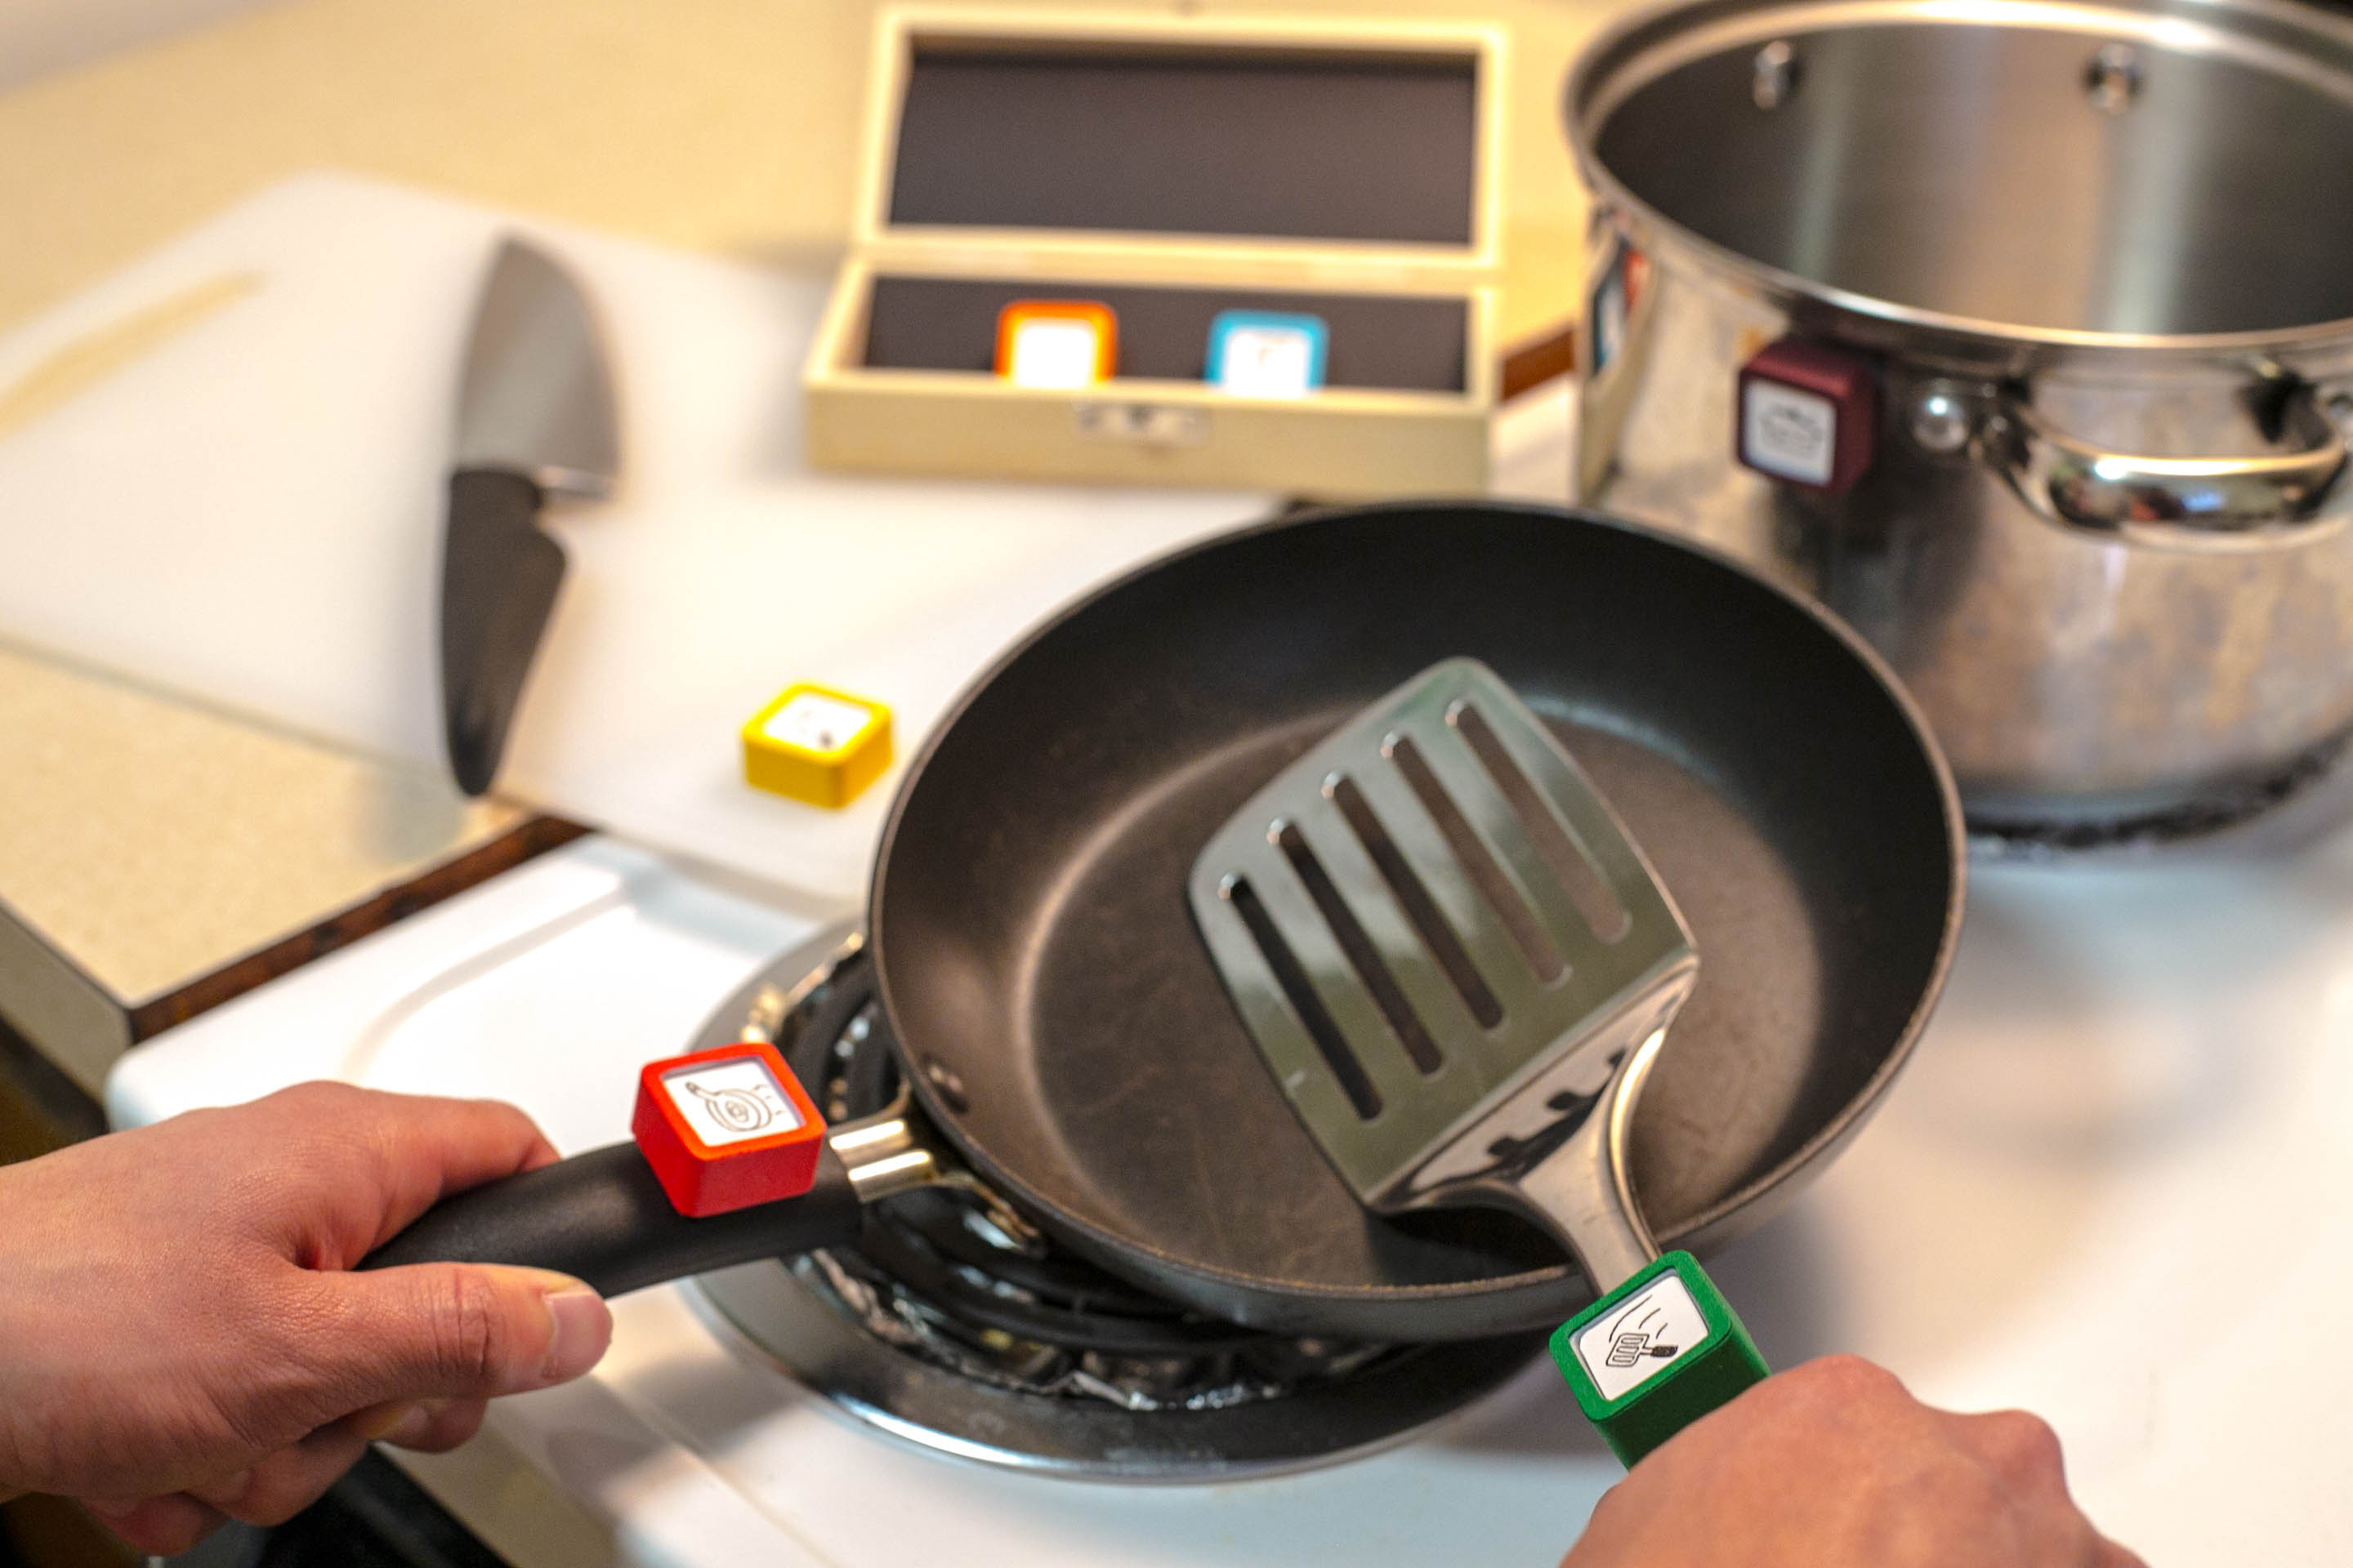
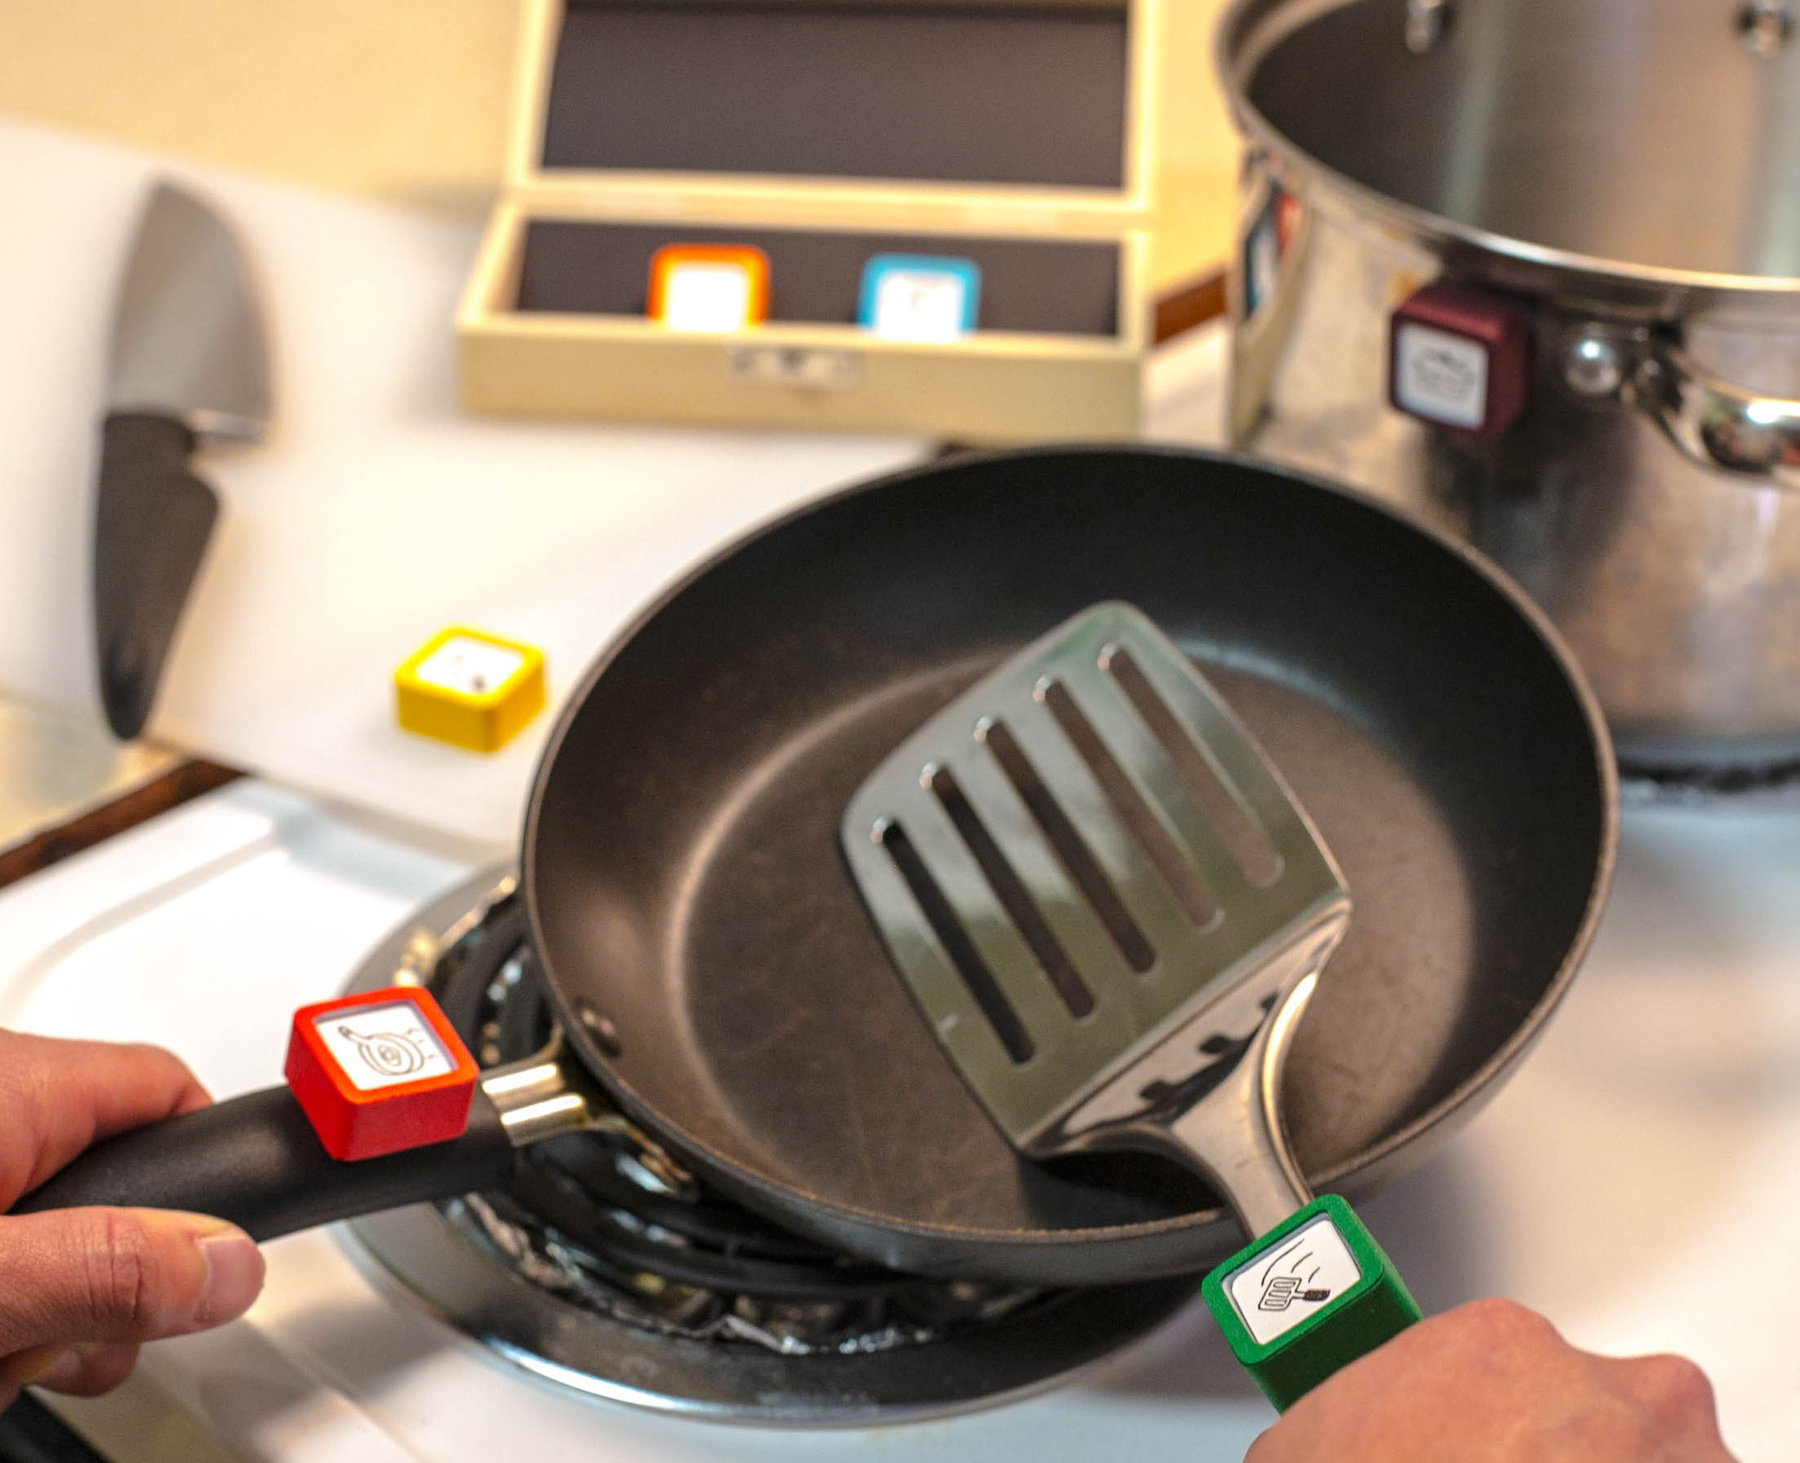
Changed Zest picture slightly, and fixed width of top-bar and description.

diff --git a/assets/css/style.css b/assets/css/style.css
@@ -6,7 +6,7 @@ body {
 
 #top-bar {
 	height: 60px;
-	width: 85%;
+	width: 75%;
 	margin: 0 auto;
 	margin-top: 20px;
 	text-align: center;
@@ -17,7 +17,7 @@ body {
 
 #description {
 	height: 40px;
-	width: 85%;
+	width: 75%;
 	margin: 0 auto;
 	text-align: center;
 	font-family: "Lato";
